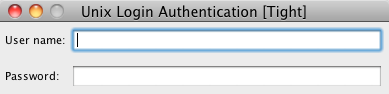
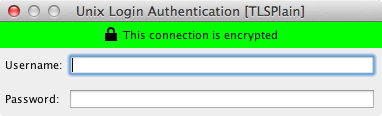
Viewer: Indicate encryption status in auth dialog

diff --git a/doc/index.html b/doc/index.html
@@ -3,7 +3,7 @@
 <head>
 <meta http-equiv="content-type" content="text/html; charset=ISO-8859-1">
 <meta name="language" content="en">
-<meta name="date" content="2022-03-31T13:17:21">
+<meta name="date" content="2022-03-31T17:44:46">
 <meta name="generator" content="deplate.rb 0.8.5">
 <title>User&rsquo;s Guide for TurboVNC 2.2.8</title>
 <link rel="start" href="index.html" title="Frontpage">
@@ -888,6 +888,9 @@ Features</strong> applet if you are running Windows 10), or select
         <br /><br /> A TurboVNC desktop window should appear on your client 
         machine.  This window contains a virtual desktop with which you can 
         interact to launch X-Windows applications on the TurboVNC host.
+        <div class="important"><p class="important">
+        If you are connecting to a non-VeNCrypt-compatible VNC server using the Java TurboVNC Viewer, then the authentication dialog will warn you that the connection is not encrypted: <br /><br /> <img src="vncauth-insecure.png" alt="vncauth-insecure" class="inline" id="imgid_7" name="imgid_7"/> <br /><br /> You should never use Unix Login authentication with an unencrypted connection.  Instead, tunnel the connection through SSH (see Section <a href="#Secure_TurboVNC_Usage" class="ref">6.5</a> below for more details.)
+        </p></div>
     </li>
 </ol>
 
@@ -1213,6 +1216,8 @@ the <code>permitted-security-types</code> directive in the TurboVNC
 security configuration file) is recommended.  Otherwise, when using the 
 Java TurboVNC Viewer with default settings, the connection will have 
 redundant encryption.</p>
+
+<p><img src="vncauth-redundant.png" alt="vncauth-redundant" class="inline" id="imgid_8" name="imgid_8"/></p>
 
 
 
@@ -2195,7 +2200,7 @@ This allows VirtualGL to send rendered frames to TurboVNC through shared
 memory rather than over a network.</p>
 
 <div class="figure">
-<img src="x11transport.png" alt="x11transport" class="figure" id="imgid_7" name="imgid_7"/>
+<img src="x11transport.png" alt="x11transport" class="figure" id="imgid_9" name="imgid_9"/>
 </div>
 
 <p>The following procedure describes how to launch a 3D application using 
@@ -2224,7 +2229,7 @@ this configuration.</p>
 <h2 id="hd009002">9.2&nbsp;Using VirtualGL on a Machine Other Than a TurboVNC Host</h2>
 
 <div class="figure">
-<img src="vgltransportservernetwork.png" alt="vgltransportservernetwork" class="figure" id="imgid_8" name="imgid_8"/>
+<img src="vgltransportservernetwork.png" alt="vgltransportservernetwork" class="figure" id="imgid_10" name="imgid_10"/>
 </div>
 
 <p>If the TurboVNC host and VirtualGL server are different machines, then 

diff --git a/java/com/turbovnc/vncviewer/PasswdDialog.java b/java/com/turbovnc/vncviewer/PasswdDialog.java
@@ -1,5 +1,5 @@
 /* Copyright (C) 2002-2005 RealVNC Ltd.  All Rights Reserved.
- * Copyright (C) 2011-2012 Brian P. Hinz
+ * Copyright (C) 2011-2012, 2017 Brian P. Hinz
  * Copyright (C) 2012, 2014, 2018, 2020 D. R. Commander.  All Rights Reserved.
  *
  * This is free software; you can redistribute it and/or modify
@@ -23,16 +23,49 @@ package com.turbovnc.vncviewer;
 import java.awt.*;
 import java.awt.event.*;
 import javax.swing.*;
+
+import com.turbovnc.rfb.*;
+
 import com.jcraft.jsch.*;
 
 class PasswdDialog extends Dialog implements KeyListener, UserInfo,
   UIKeyboardInteractive {
 
   PasswdDialog(String title_, boolean userDisabled, String userName_,
-               boolean passwdDisabled) {
+               boolean passwdDisabled, boolean sshTunnelActive, int secType) {
     super(true);
     title = title_;
     userName = userName_;
+
+    if (secType >= 0) {
+      secureMsg = new JPanel();
+      JLabel banner = new JLabel();
+      banner.setHorizontalAlignment(JLabel.CENTER);
+      banner.setOpaque(true);
+      if (!sshTunnelActive && !RFB.isEncrypted(secType)) {
+        banner.setText("This connection is not encrypted");
+        banner.setBackground(Color.RED);
+        secureMsg.setBackground(Color.RED);
+        ImageIcon insecureIcon =
+          new ImageIcon(VncViewer.class.getResource("insecure.png"));
+        banner.setIcon(insecureIcon);
+      } else if (sshTunnelActive && RFB.isEncrypted(secType)) {
+        banner.setText("This connection has redundant encryption");
+        banner.setBackground(Color.YELLOW);
+        secureMsg.setBackground(Color.YELLOW);
+        ImageIcon secureIcon =
+          new ImageIcon(VncViewer.class.getResource("secure.png"));
+        banner.setIcon(secureIcon);
+      } else {
+        banner.setText("This connection is encrypted");
+        banner.setBackground(Color.GREEN);
+        secureMsg.setBackground(Color.GREEN);
+        ImageIcon secureIcon =
+          new ImageIcon(VncViewer.class.getResource("secure.png"));
+        banner.setIcon(secureIcon);
+      }
+      secureMsg.add(banner);
+    }
 
     p1 = new JPanel();
     userLabel = new JLabel("Username:");
@@ -69,6 +102,8 @@ class PasswdDialog extends Dialog implements KeyListener, UserInfo,
 
     dlg.getContentPane().setLayout(new BoxLayout(dlg.getContentPane(),
                                                  BoxLayout.Y_AXIS));
+    if (secureMsg != null)
+      dlg.getContentPane().add(secureMsg);
     dlg.getContentPane().add(p1);
     dlg.getContentPane().add(p2);
     dlg.pack();
@@ -197,7 +232,7 @@ class PasswdDialog extends Dialog implements KeyListener, UserInfo,
     }
   }
 
-  JPanel p1, p2;
+  JPanel p1, p2, secureMsg;
   JLabel userLabel;
   JTextField userEntry;
   JLabel passwdLabel;

diff --git a/java/com/turbovnc/vncviewer/CConn.java b/java/com/turbovnc/vncviewer/CConn.java
@@ -262,7 +262,9 @@ public class CConn extends CConnection implements UserPasswdGetter,
 
     if (user == null) {
       if (autoPass == null)
-        dlg = new PasswdDialog(title, (user == null), null, (passwd == null));
+        dlg = new PasswdDialog(title, (user == null), null, (passwd == null),
+                               opts.sshTunnelActive,
+                               csecurity.getChosenType());
     } else {
       String userName = opts.user;
       if (opts.sendLocalUsername) {
@@ -274,7 +276,8 @@ public class CConn extends CConnection implements UserPasswdGetter,
       }
       if (autoPass == null)
         dlg = new PasswdDialog(title, (userName != null), userName,
-                               (passwd == null));
+                               (passwd == null), opts.sshTunnelActive,
+                               csecurity.getChosenType());
       else
         user.append(userName);
     }

diff --git a/java/com/turbovnc/rfb/RFB.java b/java/com/turbovnc/rfb/RFB.java
@@ -119,6 +119,23 @@ public final class RFB {
     }
   }
 
+  public static boolean isEncrypted(int secType) {
+    switch (secType) {
+      case SECTYPE_TLS:
+      case SECTYPE_TLS_NONE:
+      case SECTYPE_TLS_VNC:
+      case SECTYPE_TLS_PLAIN:
+      case SECTYPE_TLS_IDENT:
+      case SECTYPE_X509_NONE:
+      case SECTYPE_X509_VNC:
+      case SECTYPE_X509_PLAIN:
+      case SECTYPE_X509_IDENT:
+        return true;
+      default:
+        return false;
+    }
+  }
+
   //***************************************************************************
   // Authentication result codes
   //***************************************************************************

diff --git a/java/com/turbovnc/rfb/CSecurity.java b/java/com/turbovnc/rfb/CSecurity.java
@@ -1,5 +1,5 @@
 /* Copyright (C) 2002-2005 RealVNC Ltd.  All Rights Reserved.
- * Copyright (C) 2017 D. R. Commander.  All Rights Reserved.
+ * Copyright (C) 2017-2018 D. R. Commander.  All Rights Reserved.
  *
  * This is free software; you can redistribute it and/or modify
  * it under the terms of the GNU General Public License as published by
@@ -37,6 +37,7 @@ package com.turbovnc.rfb;
 public abstract class CSecurity {
   public abstract boolean processMsg(CConnection cc);
   public abstract int getType();
+  public int getChosenType() { return getType(); }
   public abstract String getDescription();
   public abstract String getProtocol();
 

diff --git a/java/com/turbovnc/vncviewer/Tunnel.java b/java/com/turbovnc/vncviewer/Tunnel.java
@@ -198,7 +198,7 @@ public final class Tunnel {
       auth = "publickey,keyboard-interactive,password";
     opts.sshSession.setConfig("PreferredAuthentications", auth);
     PasswdDialog dlg = new PasswdDialog(new String("SSH Authentication"),
-                                        true, user, false);
+                                        true, user, false, true, -1);
     opts.sshSession.setUserInfo(dlg);
     opts.sshSession.connect();
   }

diff --git a/java/com/turbovnc/rfb/CSecurityTight.java b/java/com/turbovnc/rfb/CSecurityTight.java
@@ -164,6 +164,10 @@ public class CSecurityTight extends CSecurity {
 
   public final int getType() { return RFB.SECTYPE_TIGHT; }
 
+  public final int getChosenType() {
+    return (cs != null ? cs.getType() : RFB.SECTYPE_UNIX_LOGIN);
+  }
+
   public final String getDescription() {
     return (cs != null ? cs.getDescription() : "UnixLogin");
   }

diff --git a/java/com/turbovnc/vncviewer/README.md b/java/com/turbovnc/vncviewer/README.md
@@ -80,3 +80,30 @@ Let the benchmark run until it produces stable results, then abort it with
 CTRL-C.  Looking at the Java 2D trace output will reveal which underlying API
 is being used to draw the images.  This should generally be OpenGL on Mac
 platforms and Windows GDI on Windows platforms.
+
+
+Acknowledgements
+----------------
+
+Lock/unlock icons in the TurboVNC Viewer authentication dialog are from
+[Open Iconic](https://useiconic.com/open), which is:
+
+    Copyright (c) 2014 Waybury
+
+    Permission is hereby granted, free of charge, to any person obtaining a
+    copy of this software and associated documentation files (the "Software"),
+    to deal in the Software without restriction, including without limitation
+    the rights to use, copy, modify, merge, publish, distribute, sublicense,
+    and/or sell copies of the Software, and to permit persons to whom the
+    Software is furnished to do so, subject to the following conditions:
+
+    The above copyright notice and this permission notice shall be included in
+    all copies or substantial portions of the Software.
+
+    THE SOFTWARE IS PROVIDED "AS IS", WITHOUT WARRANTY OF ANY KIND, EXPRESS OR
+    IMPLIED, INCLUDING BUT NOT LIMITED TO THE WARRANTIES OF MERCHANTABILITY,
+    FITNESS FOR A PARTICULAR PURPOSE AND NONINFRINGEMENT. IN NO EVENT SHALL THE
+    AUTHORS OR COPYRIGHT HOLDERS BE LIABLE FOR ANY CLAIM, DAMAGES OR OTHER
+    LIABILITY, WHETHER IN AN ACTION OF CONTRACT, TORT OR OTHERWISE, ARISING
+    FROM, OUT OF OR IN CONNECTION WITH THE SOFTWARE OR THE USE OR OTHER
+    DEALINGS IN THE SOFTWARE.

diff --git a/ChangeLog.md b/ChangeLog.md
@@ -1,6 +1,8 @@
 2.2.8
 =====
 
+### Significant changes relative to 2.2.7:
+
 1. Fixed an issue in the Java TurboVNC Viewer whereby scroll wheel events were
 transmitted to the VNC Server with incorrect coordinates if desktop scaling was
 enabled.
@@ -12,6 +14,9 @@ domain rather than the `initrc_exec_t` SELinux domain.  This fixes an issue
 whereby either Xvnc or the window manager failed to launch when attempting to
 start a TurboVNC session from the TurboVNC Server init.d script on recent Red
 Hat/CentOS, Fedora, and SuSE releases.
+
+3. The TurboVNC Viewer authentication dialog will now indicate whether the
+connection is encrypted, unencrypted, or redundantly encrypted.
 
 
 2.2.7
